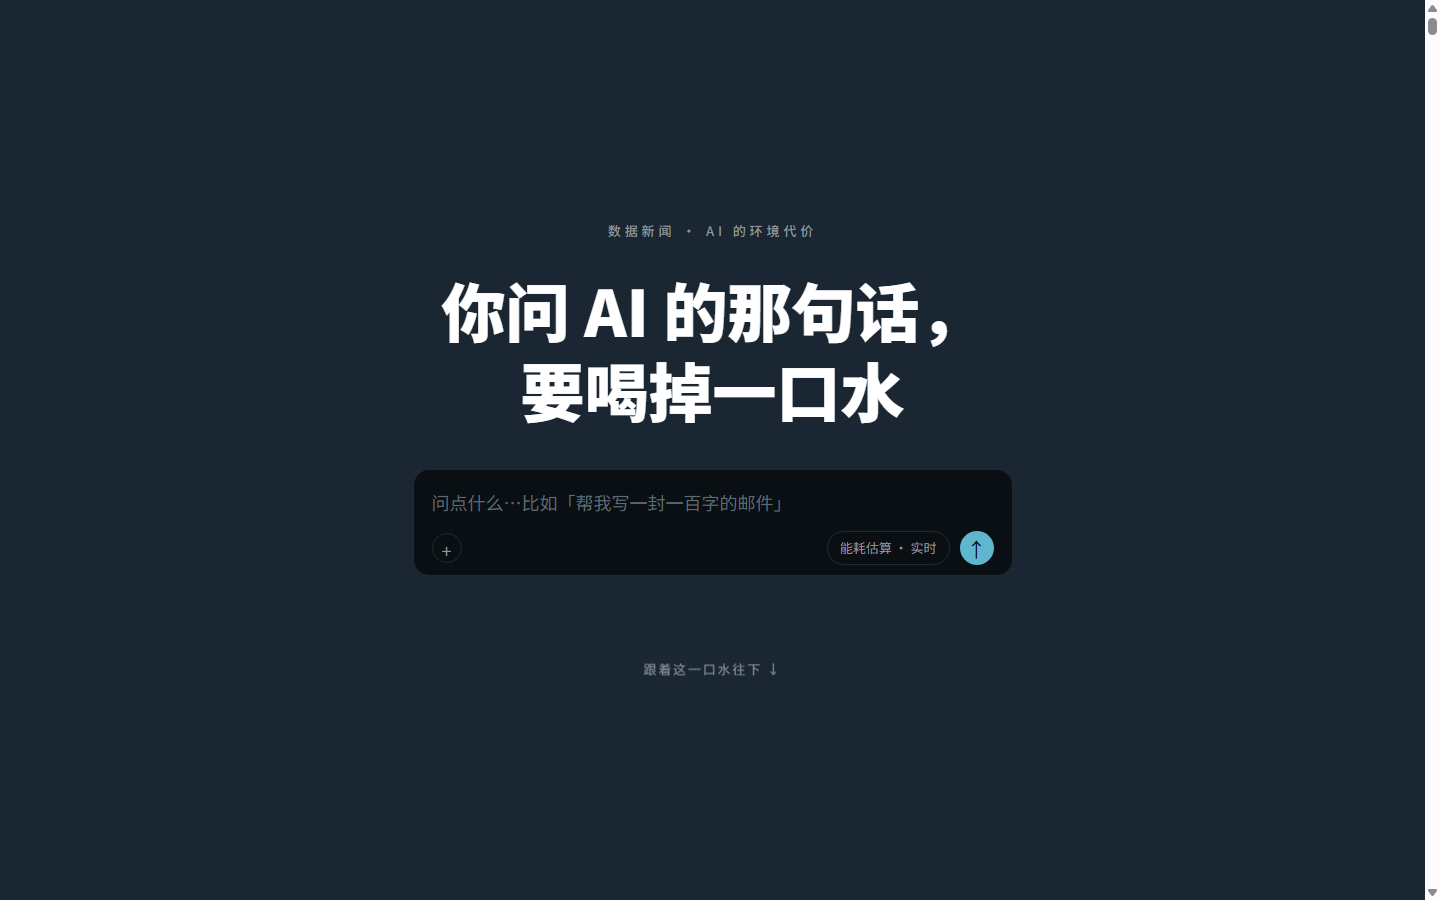
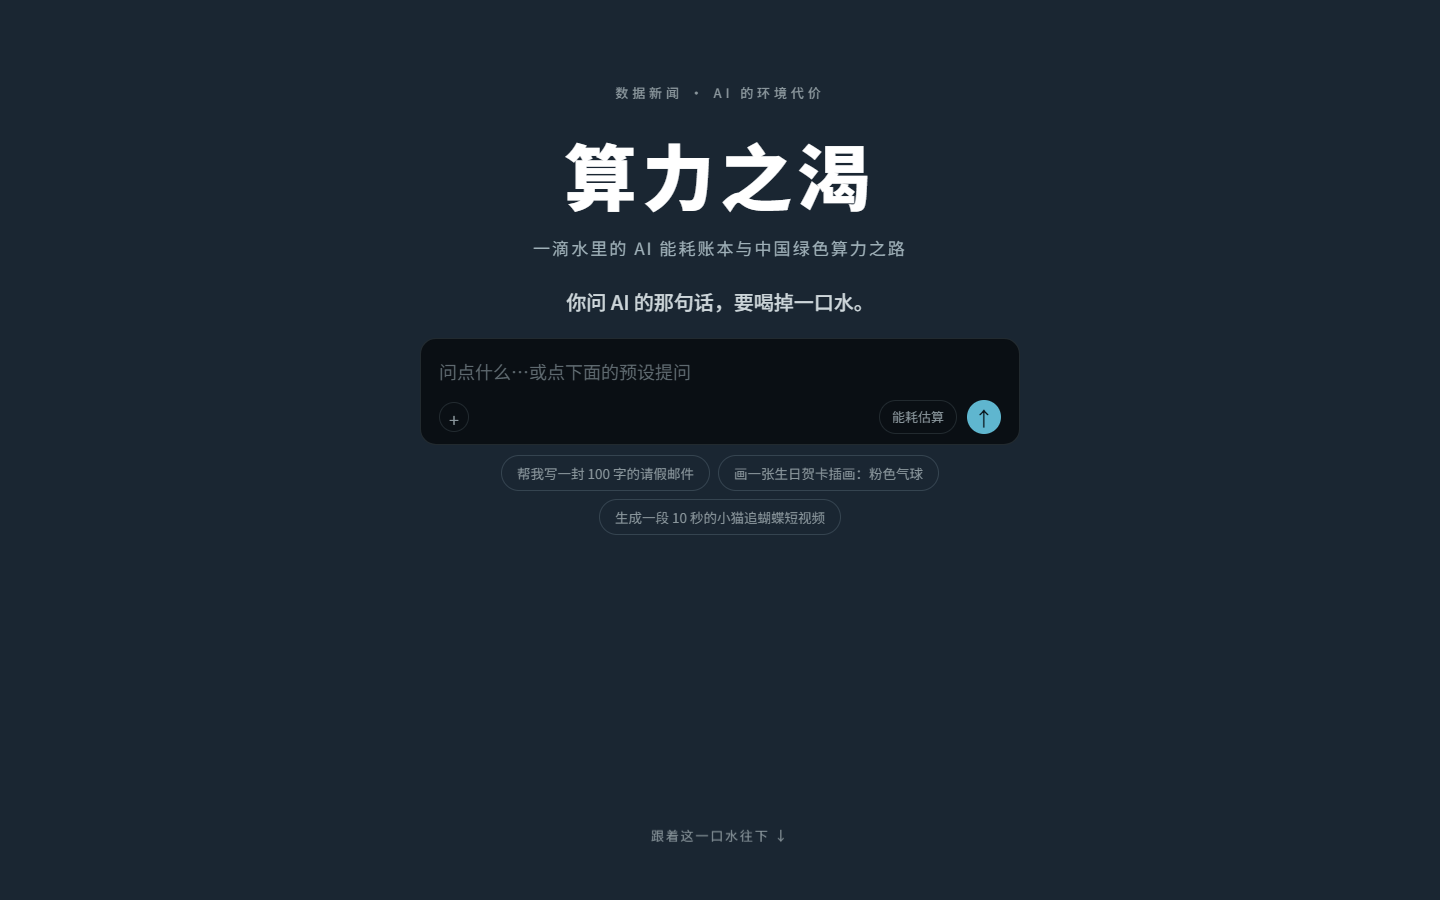
README 与首屏截图(og:image)同步新作品名《算力之渴》

diff --git a/README.md b/README.md
@@ -1,5 +1,7 @@
-# 你问 AI 的那句话，要喝掉一口水
-### The Body of the Cloud — a scrollytelling data story on AI's environmental cost
+# 算力之渴：一滴水里的 AI 能耗账本与中国绿色算力之路
+### The Thirst of Compute — a scrollytelling data story on AI's environmental cost
+
+> 开场引子：你问 AI 的那句话，要喝掉一口水。
 
 跟着一滴水走完它在 AI 数据中心里的一生：被抽走、扛热、蒸发，再看电表怎么转、账单寄给谁、碳排落在哪。8 段滚动长卷，全部图形手写渲染。
 